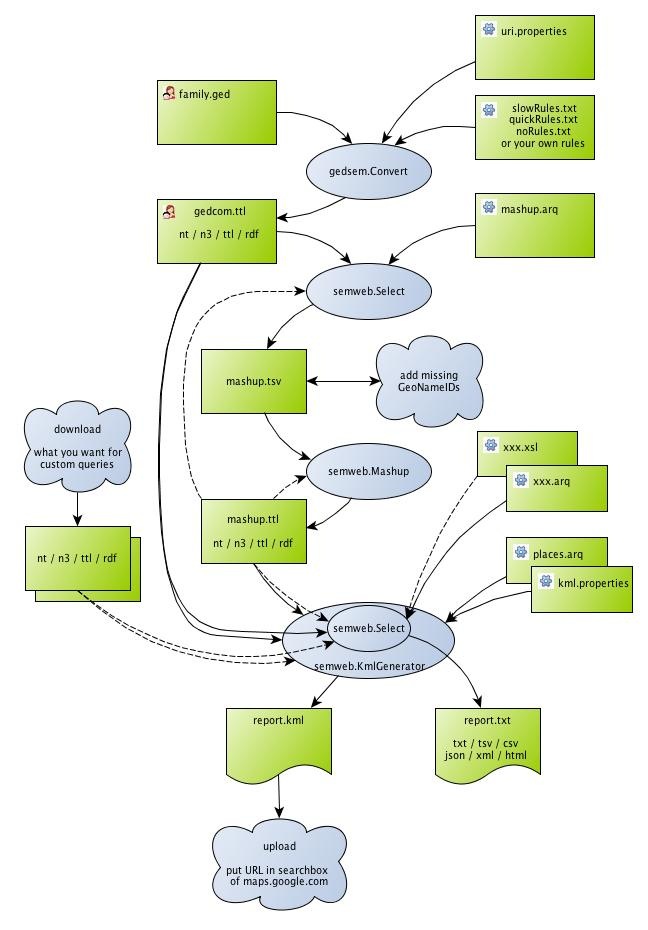
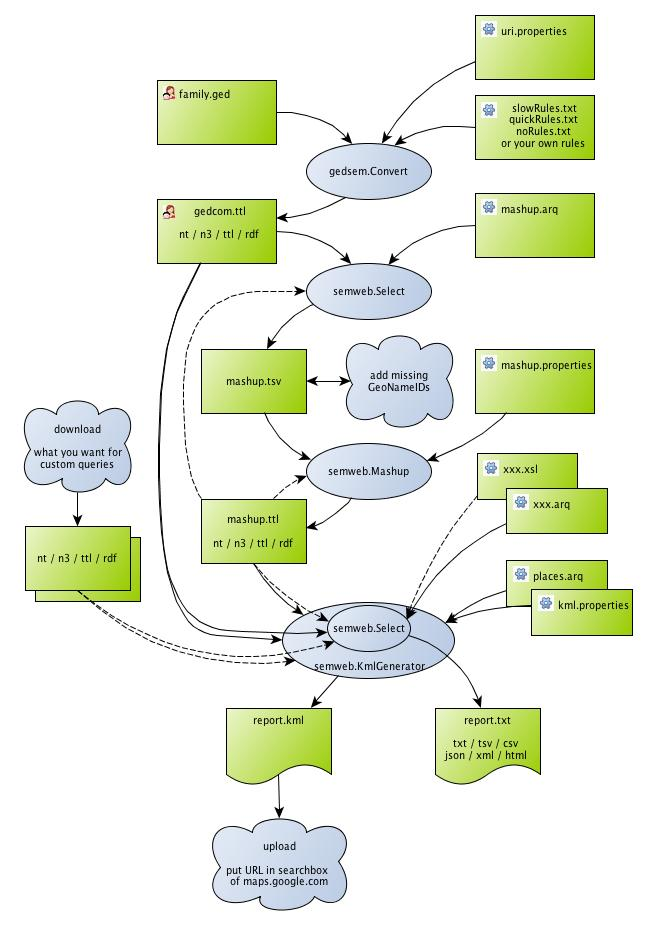
mashup accepts file arguments in random order, added json output

Changed region(s): [[0.5247, 0.343, 0.9877, 0.686]]

diff --git a/trunk/src/main/java/gedcom2sem/semweb/Mashup.java b/trunk/src/main/java/gedcom2sem/semweb/Mashup.java
@@ -27,6 +27,8 @@ import java.io.InputStreamReader;
 import java.io.UnsupportedEncodingException;
 import java.net.URI;
 import java.net.URISyntaxException;
+import java.text.MessageFormat;
+import java.util.PropertyResourceBundle;
 
 import org.apache.log4j.Logger;
 
@@ -53,14 +55,14 @@ public class Mashup
     private final Model model;
 
     /** links the literal value with the downloaded resources */
-    private final URI idPrefix;
+    private final String uriTemplate;
 
     private long flushCount;
 
     /**
      * Creates an object to download and link data from the semantic web for place name literals.
      * 
-     * @param idPrefix
+     * @param uriTemplate
      *        used to construct new URIs.
      * @param file
      *        a file with one of the extension rdf/n3/ttl. External changes to the file between and
@@ -72,10 +74,10 @@ public class Mashup
      *        just fetch the English resources.
      * @throws IOException
      */
-    public Mashup(final URI idPrefix, final File file, final String languages) throws IOException
+    public Mashup(final String uriTemplate, final File file, final String languages) throws IOException
     {
         this.file = file;
-        this.idPrefix = idPrefix;
+        this.uriTemplate = uriTemplate;
 
         rdfLanguage = FileUtil.guessLanguage(file);
         model = ModelFactory.createDefaultModel();
@@ -119,7 +121,7 @@ public class Mashup
         flush(false);
         logger.info(place);
         final String geoNameUri = "http://sws.geonames.org/" + geoNameId + "/";
-        final Resource subject = createResource(idPrefix + geoNameId);
+        final Resource subject = createResource(MessageFormat.format(uriTemplate, geoNameId));
         model.add(subject, RDFS.label, place);
         for (final String gnUri : downloadManager.downloadGeoNames(geoNameUri))
         {
@@ -133,7 +135,7 @@ public class Mashup
         }
     }
 
-    private void flush(final boolean force) throws FileNotFoundException
+    public void flush(final boolean force) throws FileNotFoundException
     {
         if (force || flushCount < model.size())
         {
@@ -142,48 +144,68 @@ public class Mashup
         }
     }
 
-    public static void main(final String... args)
+    public static void main(final String... fileNames) throws IOException, URISyntaxException
     {
-        if (args.length < 3)
-        {
-            System.err.println("");
-            System.err.println("mandatory arguments: input file , URI, output file");
-            System.err.println("optional 4th argument: dbpedia languages, for example 'de' or 'de|fr'");
-            System.err.println("output file extensions: ttl/n3/nt/rdf");
-            System.err.println("per inputline: GeoNameID, tab, place name");
-            return;
-        }
-        logger.info("started");
-        try
-        {
-            final File inputFile = new File(args[0]);
-            final URI uri = new URI(args[1]);
-            final File outputFile = new File(args[2]);
-            final String dbpediaLanguages = (args.length > 3 ? args[3] : "");
+        File inputFile = null;
+        String uri = null;
+        File outputFile = null;
+        String dbpediaLanguages = null;
 
-            final Mashup mashup = new Mashup(uri, outputFile, dbpediaLanguages);
-            final BufferedReader reader = new BufferedReader(new InputStreamReader(new FileInputStream(inputFile)));
-            for (String line; (line = reader.readLine()) != null;)
+        for (final String fileName : fileNames)
+        {
+            if (fileName.toLowerCase().endsWith(".tsv"))
             {
-                final String[] fields = line.split("\t");
-                if (fields.length > 1)
-                {
-                    final String geoNameId = fields[0].replaceAll("[^0-9]*", "");
-                    final String placeLiteral = fields[1].replaceFirst("^\"", "").replaceAll("\"$", "").trim();
-
-                    if (geoNameId.length() > 0 && placeLiteral.length() > 0)
-                        mashup.addPlaceResources(placeLiteral, geoNameId);
-                }
+                inputFile = new File(fileName);
             }
-            reader.close();
-            mashup.flush(true);
-            mashup.downloadManager.logOverwiew();
-            logger.info(mashup.model.size() + " statements");
+            else if (fileName.toLowerCase().endsWith(".properties"))
+            {
+                final PropertyResourceBundle properties = new PropertyResourceBundle(new FileInputStream(fileName));
+                uri = properties.getString("PLACE");
+                new URI(MessageFormat.format(uri, "xyz"));// verification
+                dbpediaLanguages = properties.getString("dbPedia.languages");
+            }
+            else
+            {
+                outputFile = new File(fileName);
+                if (FileUtil.guessLanguage(outputFile) == null)
+                    throw new IllegalArgumentException("not an output file (.ttl, .n3, .nt, .rdf) " + fileName);
+            }
         }
-        catch (final Throwable e)
+        if (outputFile == null)
+            throw new IllegalArgumentException("no output file (.ttl, .n3, .nt, .rdf)");
+        if (inputFile == null)
+            throw new IllegalArgumentException("no input file (.tsv)");
+        if (uri == null)
+            throw new IllegalArgumentException("no configuration file (.properties)");
+
+        logger.info("started");
+        final Mashup mashup = new Mashup(uri, outputFile, dbpediaLanguages);
+        parse(mashup, createReader(inputFile));
+        createReader(inputFile).close();
+        mashup.flush(true);
+        mashup.downloadManager.logOverwiew();
+        logger.info(mashup.model.size() + " statements");
+    }
+
+    private static void parse(final Mashup mashup, final BufferedReader reader) throws IOException, URISyntaxException, UnsupportedEncodingException
+    {
+        for (String line; (line = reader.readLine()) != null;)
         {
-            logger.fatal(e);
+            final String[] fields = line.split("\t");
+            if (fields.length > 1)
+            {
+                final String geoNameId = fields[0].replaceAll("[^0-9]*", "");
+                final String placeLiteral = fields[1].replaceFirst("^\"", "").replaceAll("\"$", "").trim();
+
+                if (geoNameId.length() > 0 && placeLiteral.length() > 0)
+                    mashup.addPlaceResources(placeLiteral, geoNameId);
+            }
         }
-        logger.info("finished");
+    }
+
+    private static BufferedReader createReader(File inputFile) throws FileNotFoundException
+    {
+        final BufferedReader reader = new BufferedReader(new InputStreamReader(new FileInputStream(inputFile)));
+        return reader;
     }
 }

diff --git a/trunk/src/test/java/gedcom2sem/BatchExamples.java b/trunk/src/test/java/gedcom2sem/BatchExamples.java
@@ -28,28 +28,25 @@ public class BatchExamples
     private static final String MAIN = "src/main/resources/";
     private static final String QUERY_DIR = "src/main/resources/reports/";
     private static final String RULES = "src/main/resources/rules/SlowRules.txt";
-
-    @Ignore
-    // Mashup takes too long to run on a regular basis
-    @Test
-    public void all() throws Exception
-    {
-        Convert.main(RULES, MAIN + "uri.properties", TEST + "kennedy.ged", "target/kennedy.ttl");
-
-        Select.main("target/kennedy.ttl", "target/mashup.tsv", QUERY_DIR + "mashup/mashup.arq");
-
-        // consider MASHUP_TSV changed manually into KENNEDY_TSV (geo name IDs added)
-        Mashup.main(TEST + "kennedy.tsv", "http://my.domain.com/places#", "target/mashup.ttl", "de|fr");
-
-        Select.main("target/kennedy.ttl", "target/mashup.ttl", "target/places.tsv", QUERY_DIR + "classmates.arq");
-
-        KmlGenerator.main(MAIN + "kml.properties", "target/kennedy.ttl", "target/mashup.ttl", QUERY_DIR + "mashup/places.arq", "target/places.kml");
-    }
-
+    
     @Test
     public void convert() throws Exception
     {
         Convert.main(RULES, MAIN + "uri.properties", TEST + "kennedy.ged", "target/kennedy.ttl");
+    }
+
+    @Test
+    public void prepareMashup() throws Exception
+    {
+        Select.main("target/kennedy.ttl", "target/mashup.tsv", QUERY_DIR + "mashup/mashup.arq");
+    }
+
+    @Ignore
+    // takes too long to run on a regular basis
+    @Test
+    public void mashup() throws Exception
+    {
+        Mashup.main(TEST + "kennedy.tsv", MAIN + "mashup.properties", "target/kennedyMashup.ttl");
     }
 
     @Test
